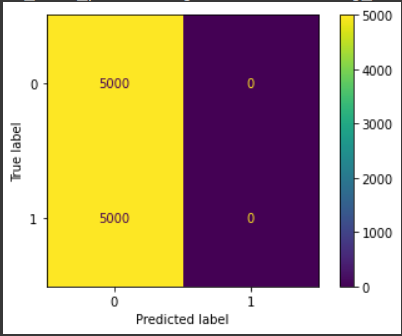
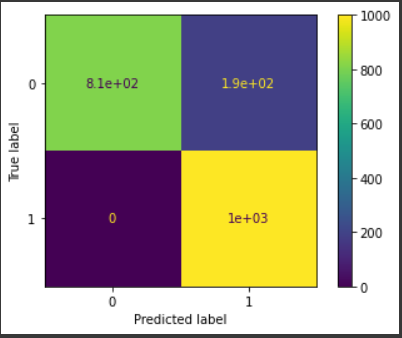
Update Test 5 code and results

diff --git a/models/debugging/1D-CNN Binary Classification/Signal_HIDDEN_in_strain_data/Signal_NOT_WHITENED/Test 5/README.md b/models/debugging/1D-CNN Binary Classification/Signal_HIDDEN_in_strain_data/Signal_NOT_WHITENED/Test 5/README.md
@@ -63,22 +63,23 @@ _________________________________________________________________
 ```
 
 # Trial Hyperparameters :
+"5-F CV" in the last column represents 5-Fold Cross Validation. 
 ```
-| Trial No. | Normalized? | Amplitude Re-Scaled? | Optimizer | lr   | Batch Size | Epochs |
-| --------- | ----------- | -------------------- | --------- | ---- | ---------- | ------ |
-| 1         | No          | Yes (By 1e19)        | Adam      | 1e-3 | 128        | 5      |
-| --------- | ----------- | -------------------- | --------- | ---- | ---------- | ------ |
-| 2         | No          | Yes (By 1e18)        | Adam      | 1e-3 | 128        | 5      |
-| --------- | ----------- | -------------------- | --------- | ---- | ---------- | ------ |
+| Trial No. | Normalized? | Amplitude Re-Scaled? | Optimizer | lr   | Batch Size | Epochs | 5-F CV |
+| --------- | ----------- | -------------------- | --------- | ---- | ---------- | ------ | ------ |
+| 1         | No          | Yes (By 1e19)        | Adam      | 1e-3 | 128        | 5      | No     |
+| --------- | ----------- | -------------------- | --------- | ---- | ---------- | ------ | ------ |
+| 2         | No          | Yes (By 1e19)        | Adam      | 1e-3 | 128        | 3      | Yes    |
+| --------- | ----------- | -------------------- | --------- | ---- | ---------- | ------ | ------ |
 ```
 
 # Trial Results :
 ```
 | Trial No. | Accuracy | Precision | Recall | F1 Score |
 | --------- | -------- | --------- | ------ | -------- |
-| 1         | 49.55%   | 0.5       | 1      | 0.667    |
+| 1         | 100%     | 1         | 1      | 1        |
 | --------- | -------- | --------- | ------ | -------- |
-| 2         | 49.90%   | 0         | 0      | -        |
+| 2         | 90.1%    | 0.905     | 1      | 0.938    |
 | --------- | -------- | --------- | ------ | -------- |
 ```
 
